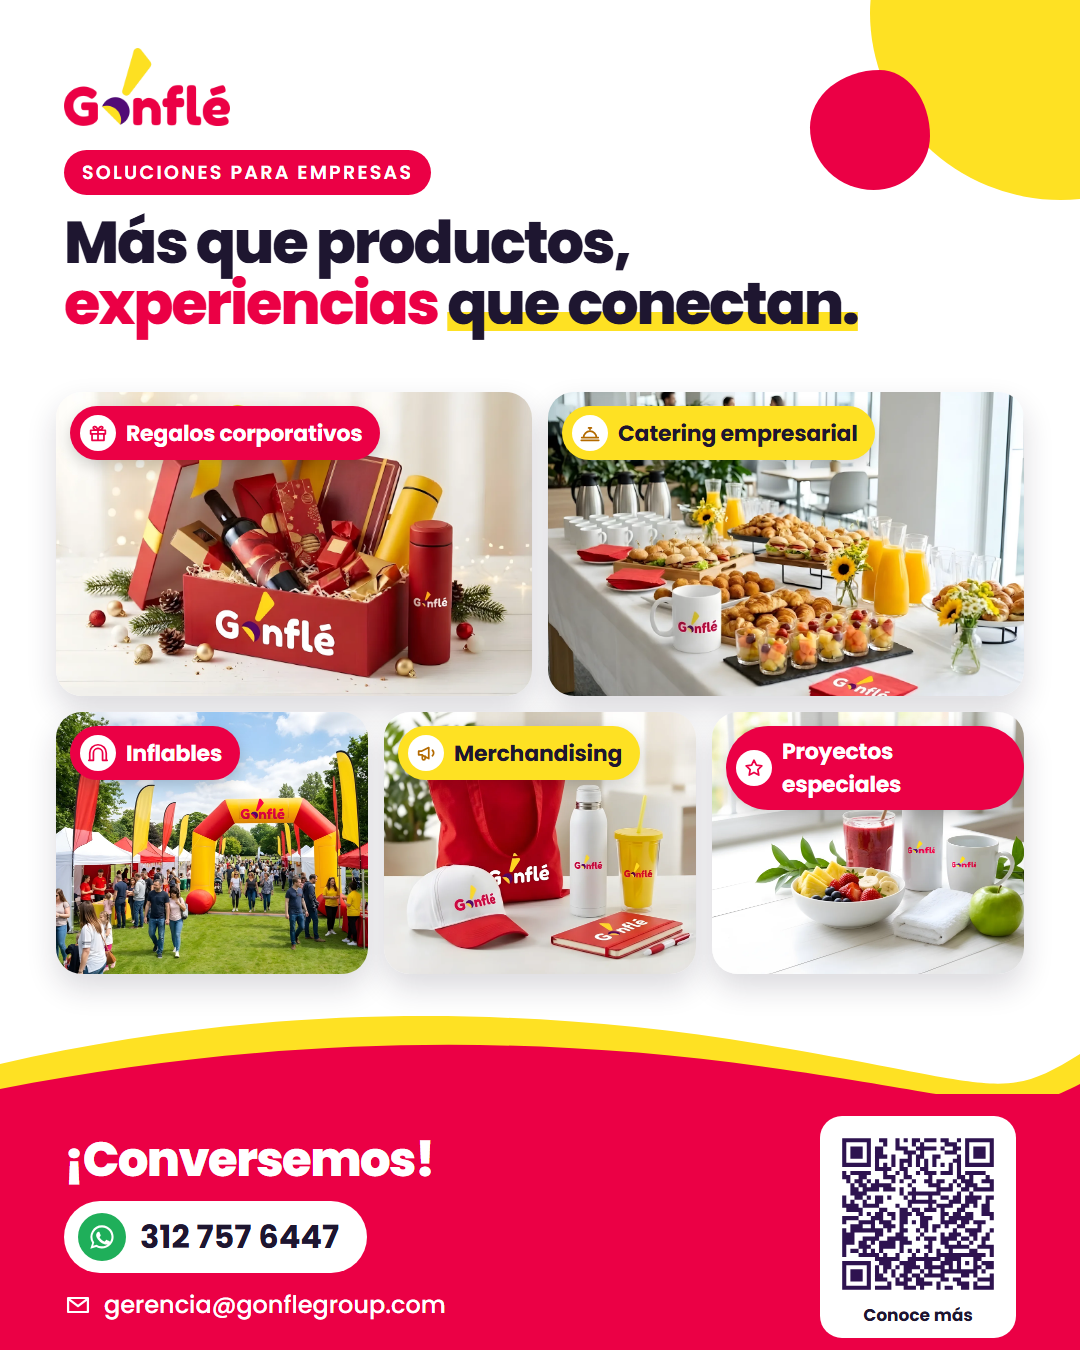
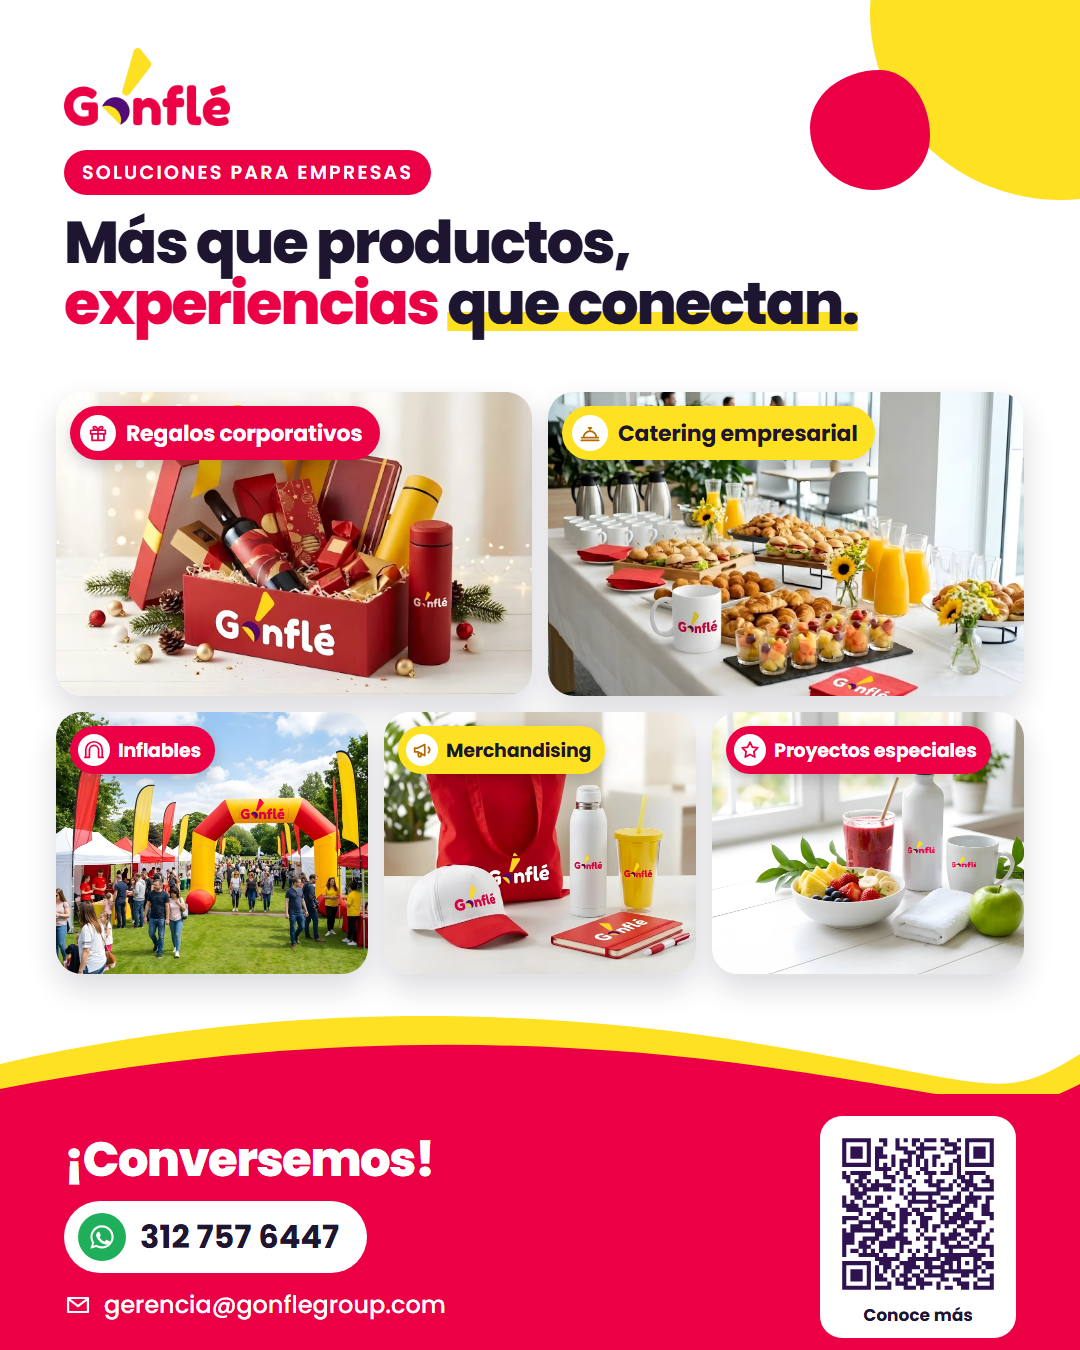
Imagen de WhatsApp: etiqueta en una línea

Changed region(s): [[0.6722, 0.5289, 0.9472, 0.6222], [0.3667, 0.5289, 0.6111, 0.5911], [0.0611, 0.5289, 0.2444, 0.5911]]

diff --git a/fuentes/whatsapp.html b/fuentes/whatsapp.html
@@ -42,6 +42,9 @@ html,body{margin:0;width:1080px;height:1350px;overflow:hidden}
 .mail svg{width:28px;height:28px;flex:none}
 .qr{background:#fff;border-radius:22px;padding:14px 14px 10px;text-align:center;font-size:17px;font-weight:700;color:var(--tinta)}
 .qr img{width:100%;display:block;margin-bottom:4px}
+.pill{white-space:nowrap}
+.f.p .pill{font-size:19px;padding:8px 14px 8px 8px;gap:8px}
+.f.p .pill i{width:32px;height:32px}
 </style>
 </head>
 <body>
